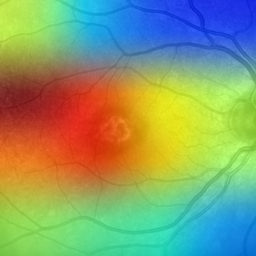
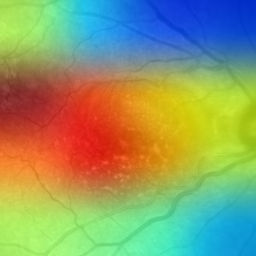
forecasting UI finished

diff --git a/app.py b/app.py
@@ -11,6 +11,7 @@ from io import BytesIO
 import dash
 import dash_core_components as dcc
 import dash_html_components as html
+import flask
 import tensorflow as tf
 import dash_table
 import pandas as pd
@@ -28,7 +29,8 @@ from neural_networks.rnn import Rnn
 
 external_stylesheets = ['https://codepen.io/chriddyp/pen/bWLwgP.css']
 
-app = dash.Dash(__name__, external_stylesheets=external_stylesheets, suppress_callback_exceptions=True)
+assets_path = os.getcwd() +'/shap_explanations'
+app = dash.Dash(__name__, external_stylesheets=external_stylesheets, suppress_callback_exceptions=True, assets_folder=assets_path)
 
 datatype = 'numerical'
 include_timestamps = True
@@ -76,8 +78,8 @@ app.layout = html.Div(children=[
     html.H6(children='AMD evolution forecasting system'),
 
     dcc.Tabs(id='tabs-example', value='tab-1', children=[
-        dcc.Tab(label='Train models', value='tab-1', style=tab_style),
-        dcc.Tab(label='Forecast visual acuities', value='tab-2', style=tab_style),
+        dcc.Tab(label='Predict future visual acuities', value='tab-1', style=tab_style),
+        dcc.Tab(label='Visualize forecasting explanations', value='tab-2', style=tab_style),
     ], style=tabs_styles),
     html.Div(id='tabs-example-content')
 
@@ -98,54 +100,68 @@ app.layout = html.Div(children=[
 @app.callback(Output('tabs-example-content', 'children'),
               Input('tabs-example', 'value'))
 def render_content(tab):
-    if tab == 'tab-1':
-        algorithms = ["Linear regression", "LASSO regression", "Gradient Boosting Regression",
-                      "Random Forest Regression", "Extremely Randomized Trees", "Simple RNN network",
-                      "LSTM network", "GRU network"]
-        data_transform = ['Monthly time-series resampling', "Original series with timestamps as features"]
-        feature_sel = ['All features', "Recursive Feature Elimination", "LASSO feature selection"]
-
-        controls = [
-            html.Label(['Machine Learning algorithm', dcc.Dropdown(
-                options=[{"label": x, "value": x} for x in algorithms],
-                value=algorithms[0]
-            )], style={'font-size': '12px'}),
-            html.Label(['Data transformation method', dcc.Dropdown(
-                options=[{"label": x, "value": x} for x in data_transform],
-                value=data_transform[0],
-            )], style={'font-size': '12px'})
-            ,
-            html.Label(['Feature selection method', dcc.Dropdown(
-                options=[{"label": x, "value": x} for x in feature_sel],
-                value=feature_sel[0],
-            )], style={'font-size': '12px'}),
-            html.Label(['Time-series size', dcc.Slider(
-                min=2,
-                max=10,
-                value=2,
-                marks={
-                    2: {'label': '2 visits'},
-                    3: {'label': '3 visits'},
-                    4: {'label': '4 visits'},
-                    5: {'label': '5 visits'},
-                    6: {'label': '6 visits'},
-                    7: {'label': '7 visits'},
-                    8: {'label': '8 visits'},
-                    9: {'label': '9 visits'},
-                    10: {'label': '10 visits'}
-                },
-                included=False
-            )], style={'font-size': '12px'})
-            ,
-            html.Button('Train', id='submit-val', style={'left': '30%', 'position': 'relative'})
-        ]
-
-        return html.Div([
-            html.Div([html.H3(''),
-                      html.Div(controls),  # html.Div(id="folder-files")
-                      ])
-        ], style={'width': '30%', 'display': 'inline-block', 'vertical-align': 'middle'})
-    elif tab == 'tab-2':
+    if tab == 'tab-2':
+        patient_data = get_patient_data(current_patient)
+        return html.Div([html.P('Patient with ID 8138, right eye (OD)'),
+                         html.Div(dash_table.DataTable(
+                             id='table',
+                             columns=[{"name": i, "id": i, "selectable": True} for i in patient_data.columns],
+                             data=patient_data.to_dict('records'),
+                             style_table={
+                                 'overflowY': 'scroll',
+                                 'overflowX': 'scroll'
+                             }), style={'width': '100%', 'display': 'inline-block', 'vertical-align': 'middle',
+                                        'horizontal-align': 'middle', 'padding-bottom':'15px'}),
+                         html.Br(),
+                         html.Iframe(src=app.get_asset_url('shap.html'),
+                                    style={'width':'100%', 'overflow': 'hidden'})])
+        # algorithms = ["Linear regression", "LASSO regression", "Gradient Boosting Regression",
+        #               "Random Forest Regression", "Extremely Randomized Trees", "Simple RNN network",
+        #               "LSTM network", "GRU network"]
+        # data_transform = ['Monthly time-series resampling', "Original series with timestamps as features"]
+        # feature_sel = ['All features', "Recursive Feature Elimination", "LASSO feature selection"]
+        #
+        #controls = [
+        #    html.Iframe(src=app.get_asset_url('shap.html'))
+        #     html.Label(['Machine Learning algorithm', dcc.Dropdown(
+        #         options=[{"label": x, "value": x} for x in algorithms],
+        #         value=algorithms[0]
+        #     )], style={'font-size': '12px'}),
+        #     html.Label(['Data transformation method', dcc.Dropdown(
+        #         options=[{"label": x, "value": x} for x in data_transform],
+        #         value=data_transform[0],
+        #     )], style={'font-size': '12px'})
+        #     ,
+        #     html.Label(['Feature selection method', dcc.Dropdown(
+        #         options=[{"label": x, "value": x} for x in feature_sel],
+        #         value=feature_sel[0],
+        #     )], style={'font-size': '12px'}),
+        #     html.Label(['Time-series size', dcc.Slider(
+        #         min=2,
+        #         max=10,
+        #         value=2,
+        #         marks={
+        #             2: {'label': '2 visits'},
+        #             3: {'label': '3 visits'},
+        #             4: {'label': '4 visits'},
+        #             5: {'label': '5 visits'},
+        #             6: {'label': '6 visits'},
+        #             7: {'label': '7 visits'},
+        #             8: {'label': '8 visits'},
+        #             9: {'label': '9 visits'},
+        #             10: {'label': '10 visits'}
+        #         },
+        #         included=False
+        #     )], style={'font-size': '12px'})
+        #     ,
+        #     html.Button('Train', id='submit-val', style={'left': '30%', 'position': 'relative'})
+        #]
+        #
+        #return html.Div([html.H3(''),
+        #              html.Div(controls),  # html.Div(id="folder-files")
+        #              ], style={'width': '100%', 'vertical-align': 'middle'}
+        #    )
+    elif tab == 'tab-1':
         patients = data.index.get_level_values(0).tolist()
         patients = list(dict.fromkeys(patients))
         # forecast for existing patient or add new patient
@@ -198,12 +214,7 @@ current_patient = None
 patient_data_notres = None
 
 
-@app.callback(
-    dash.dependencies.Output('dd-output-container', 'children'),
-    [dash.dependencies.Input('dropdown', 'value')])
-def update_output(value):
-    global current_patient, patient_data_notres
-    current_patient = value
+def get_patient_data(value):
     patient_data = data.loc[data.index.get_level_values(0) == value].copy()
     patient_data.drop(patient_data.tail(1).index, inplace=True)
     patient_data_notres = patient_data
@@ -211,6 +222,15 @@ def update_output(value):
     patient_data.insert(0, 'Visit date', patient_data.index.get_level_values(1))
     patient_data['Visit date'] = patient_data['Visit date'].dt.date
     patient_data = patient_data.round(2)
+    return patient_data
+
+@app.callback(
+    dash.dependencies.Output('dd-output-container', 'children'),
+    [dash.dependencies.Input('dropdown', 'value')])
+def update_output(value):
+    global current_patient, patient_data_notres
+    current_patient = value
+    patient_data = get_patient_data(value)
 
     return html.Div([
         html.Div(dash_table.DataTable(

diff --git a/data_processing/latent_code_handler.py b/data_processing/latent_code_handler.py
@@ -102,7 +102,7 @@ class LatentCodeHandler:
     def get_gradcam_heatmap(self, images):
         # we create a model that maps the input image to conv layer activations
         #5,7,8
-        last_conv_layer = self.model.get_layer("conv2d_7")
+        last_conv_layer = self.model.get_layer("conv2d_8")
         last_conv_layer_model = Model(self.model.inputs, last_conv_layer.output)
 
         # we create a model that maps the activations of the conv layer
